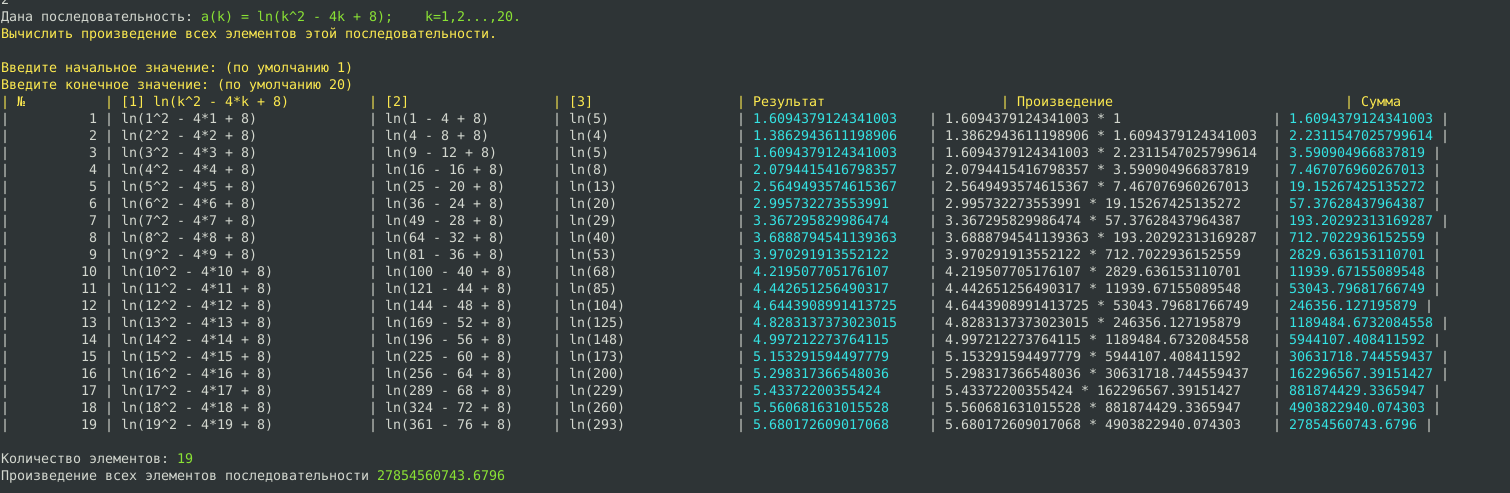
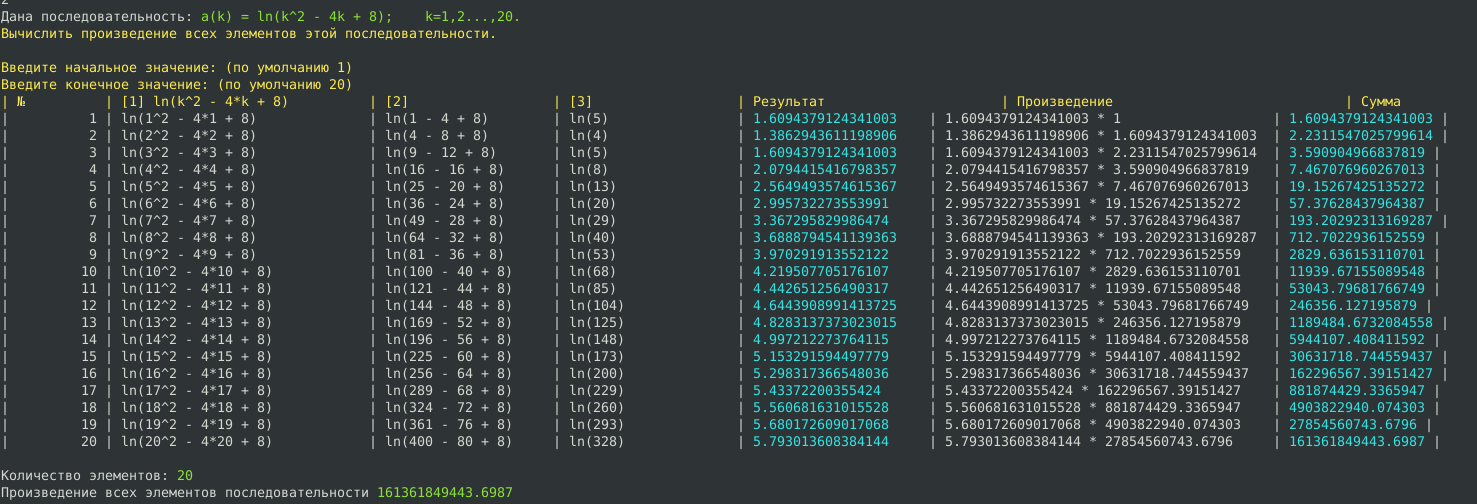
correct ex 2

diff --git a/ex_2.py b/ex_2.py
@@ -28,7 +28,7 @@ def init():
         default_value=_DEFAULT_END_VALUE,
         min=_DEFAULT_MIN_END_VALUE,
         max=_DEFAULT_MAX_END_VALUE
-    ))
+    )) + 1
 
     print(get_text_color(_FORMAT.format(*[
         '№', 
@@ -40,10 +40,11 @@ def init():
         'Сумма'
     ]), COLOR_WARNING))
     multiplikation = 1
+    i = 1
     for k in range(start, end):
         result = math.log(k*k - 4*k + 8)
         print(_FORMAT.format(*[
-            k,
+            i,
             f'ln({k}^2 - 4*{k} + 8)', 
             f'ln({k*k} - {4*k} + 8)', 
             f'ln({k*k - 4*k + 8})', 
@@ -52,6 +53,7 @@ def init():
             get_text_color(multiplikation * result, COLOR_OKCYAN),
         ]))
         multiplikation *= result
+        i += 1
 
     print(f'\nКоличество элементов: {get_text_color(end - start, COLOR_GREEN)}')
     print(f'Произведение всех элементов последовательности {get_text_color(multiplikation, COLOR_GREEN)}')

diff --git a/README.md b/README.md
@@ -53,3 +53,10 @@
       <img src="https://github.com/dr-number/-semestr-4-informatic-var2/blob/master/for_read_me/ex_2/standart.png">
    </p>
 </figure>
+
+<figure>
+   <p align="center">Результат с пользовательскими данными</p>
+   <p align="center">
+      <img src="https://github.com/dr-number/-semestr-4-informatic-var2/blob/master/for_read_me/ex_2/custom_data.png">
+   </p>
+</figure>
